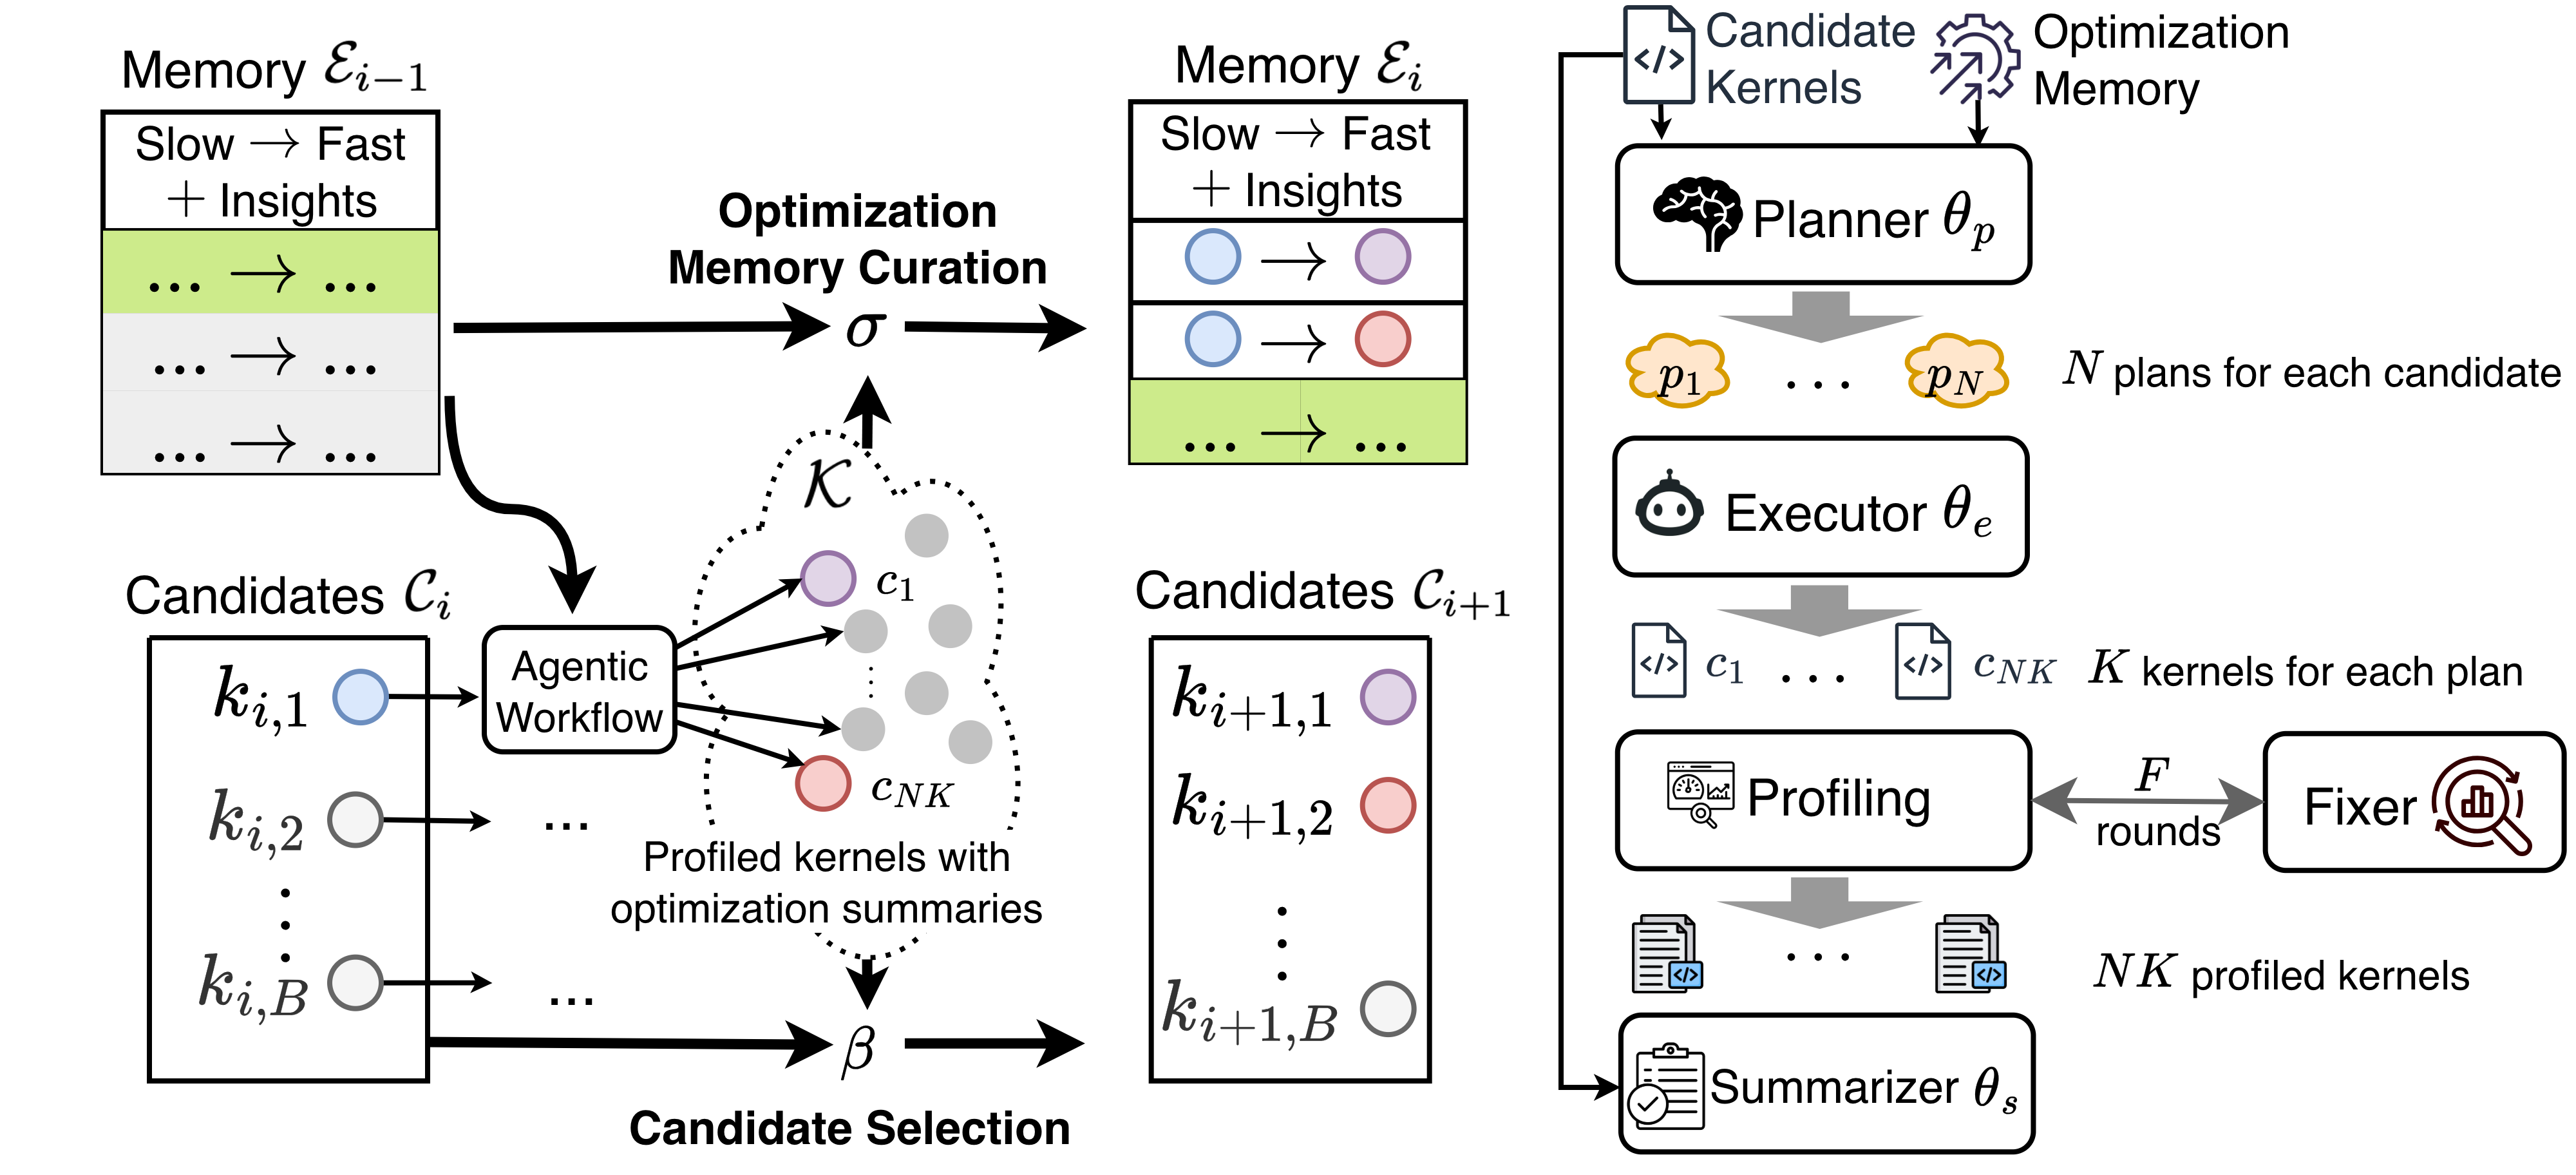
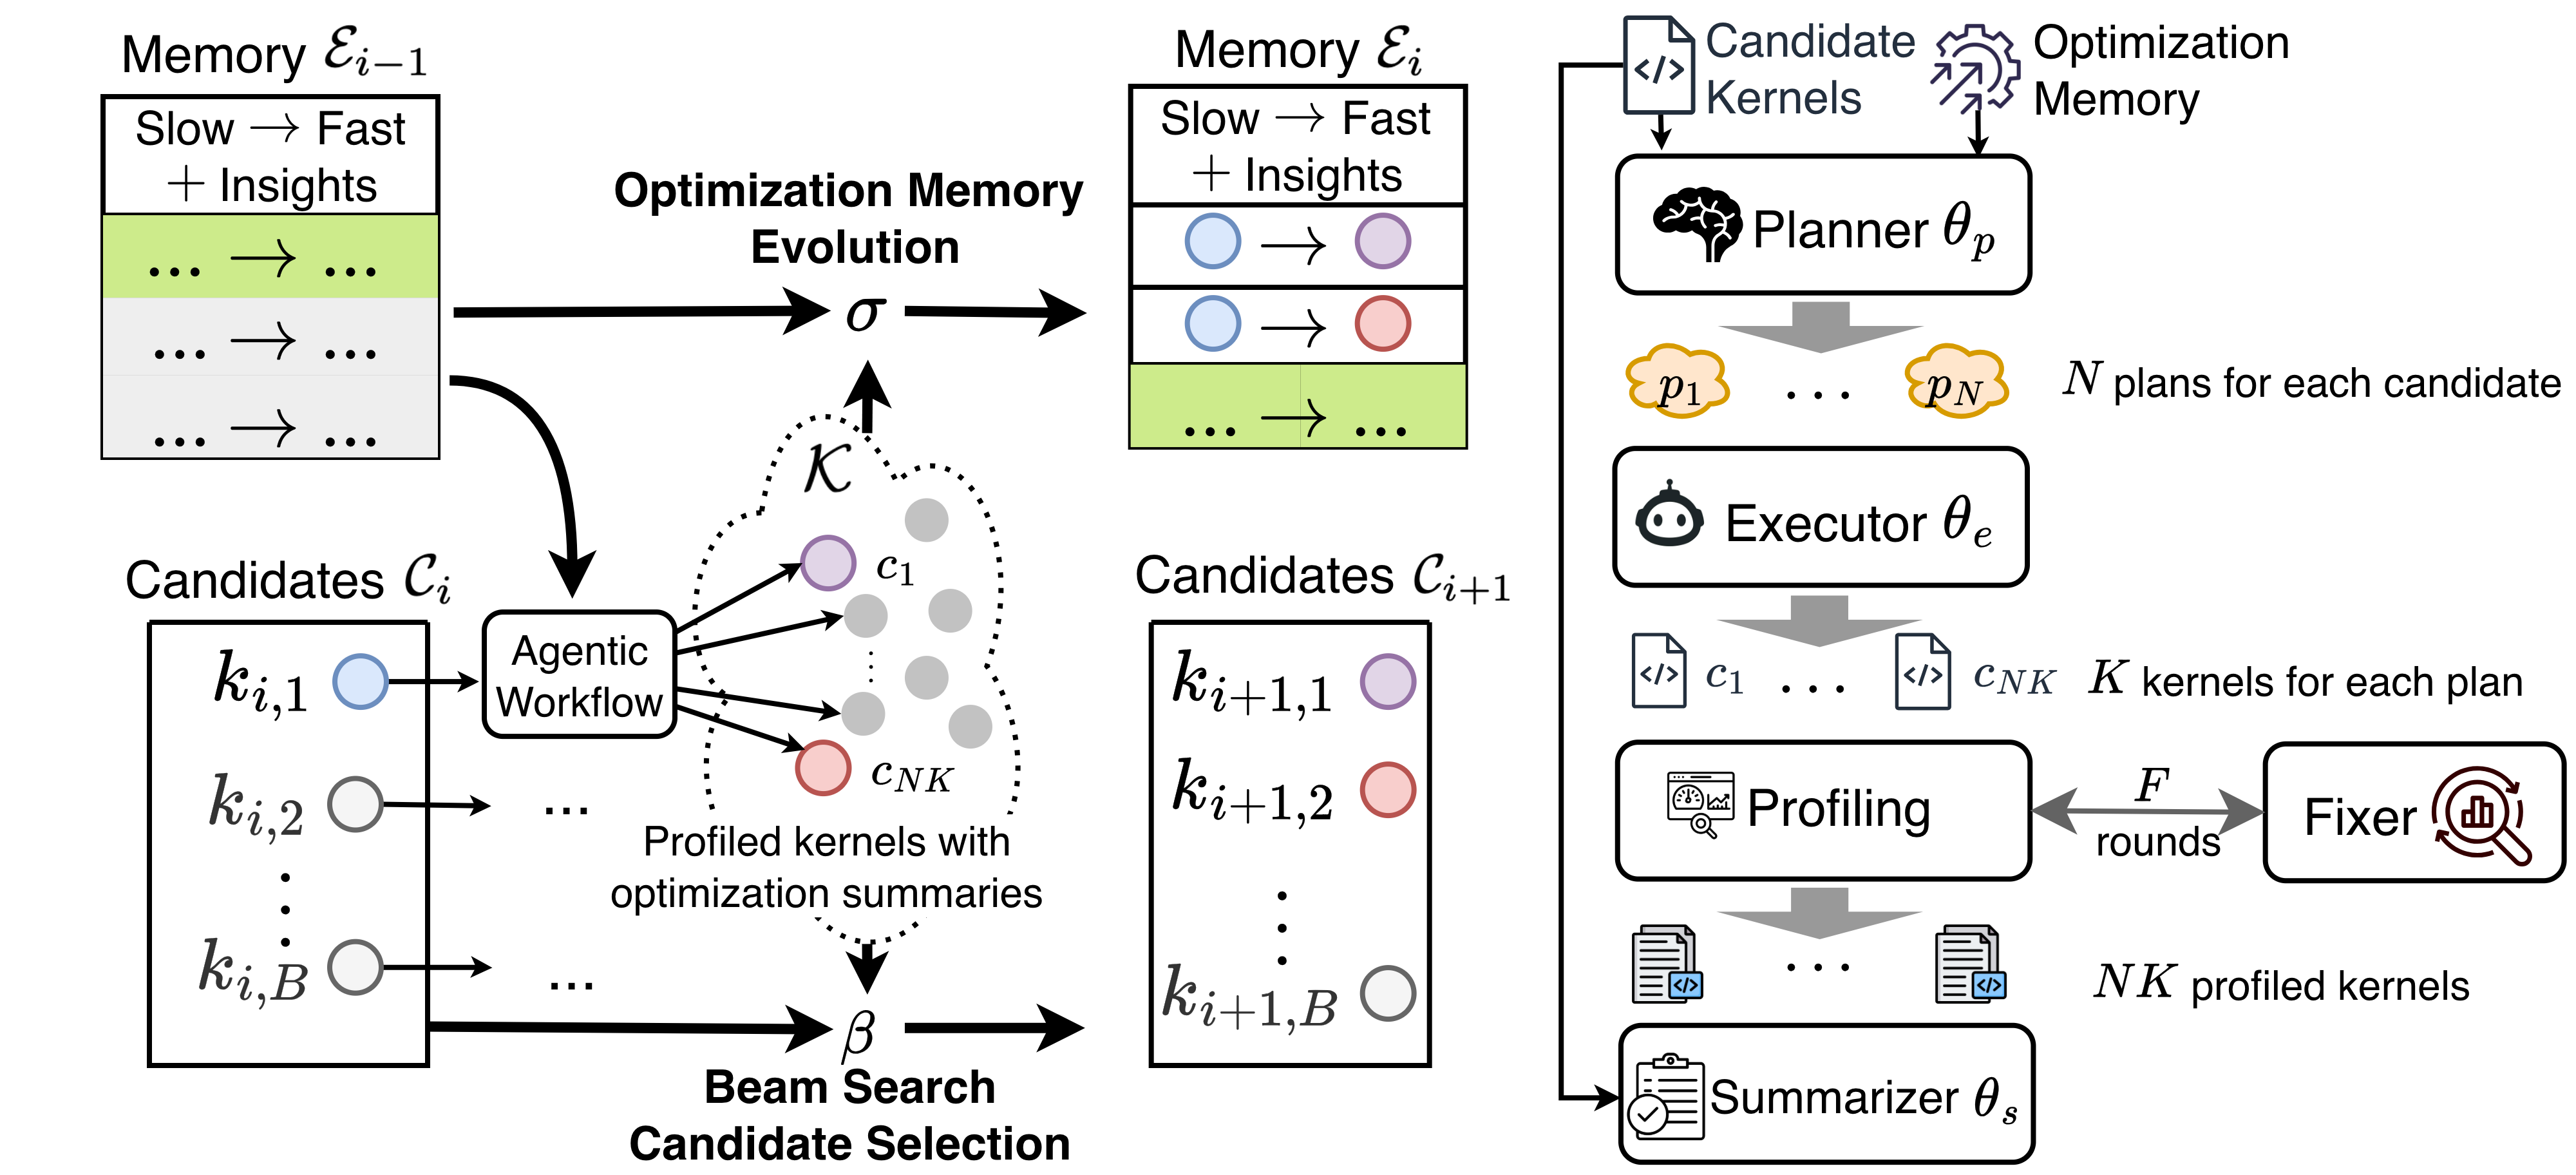
Update

diff --git a/assets/js/load_publications.js b/assets/js/load_publications.js
@@ -16,7 +16,8 @@ $(function() {
         ARXIV: "arXiv preprint",
         ICML: "International Conference on Machine Learning (ICML)",
         NeurIPS: "Annual Conference on Neural Information Processing Systems (NeurIPS)",
-        ICLR: "International Conference on Learning Representations (ICLR)"
+        ICLR: "International Conference on Learning Representations (ICLR)",
+        MLSys: "Annual Conference on Machine Learning and Systems (MLSys)"
     }
 
     let publications = [
@@ -71,8 +72,8 @@ $(function() {
         {
             title: "AccelOpt: A Self-Improving LLM Agentic System for AI Accelerator Kernel Optimization",
             authors: "Genghan Zhang, Shaowei Zhu, Anjiang Wei, Zhenyu Song, Allen Nie, Zhen Jia, Nandita Vijaykumar, Yida Wang, and Kunle Olukotun",
-            venue: venues.ARXIV,
-            year: 2025,
+            venue: venues.MLSys,
+            year: 2026,
             pdfs: [
                 {
                     title: "arXiv",

diff --git a/accelopt.html b/accelopt.html
@@ -63,6 +63,7 @@
         <ul>
           <li>
             <a href="https://arxiv.org/pdf/2511.15915" target="_blank">AccelOpt: A Self-Improving LLM Agentic System for AI Accelerator Kernel Optimization</a>
+            <strong>MLSys 2026</strong>
           </li>
           <li>
             <a href="https://proceedings.mlr.press/v267/zhang25at.html" target="_blank">Adaptive Self-improvement LLM Agentic System for ML Library Development</a> 